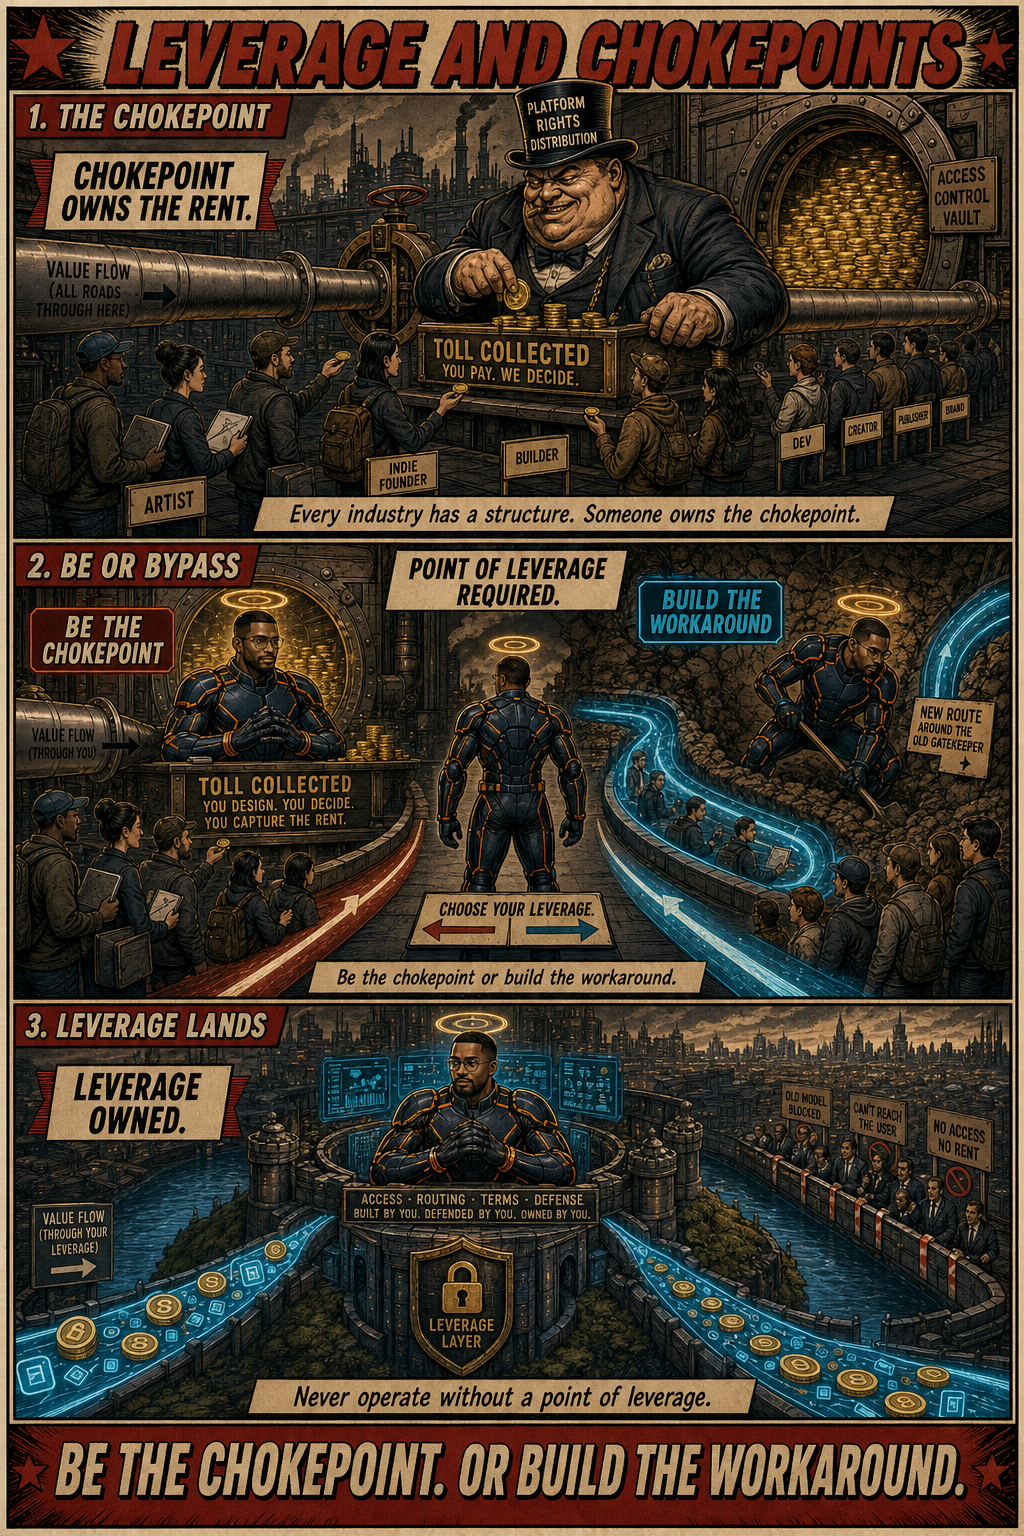
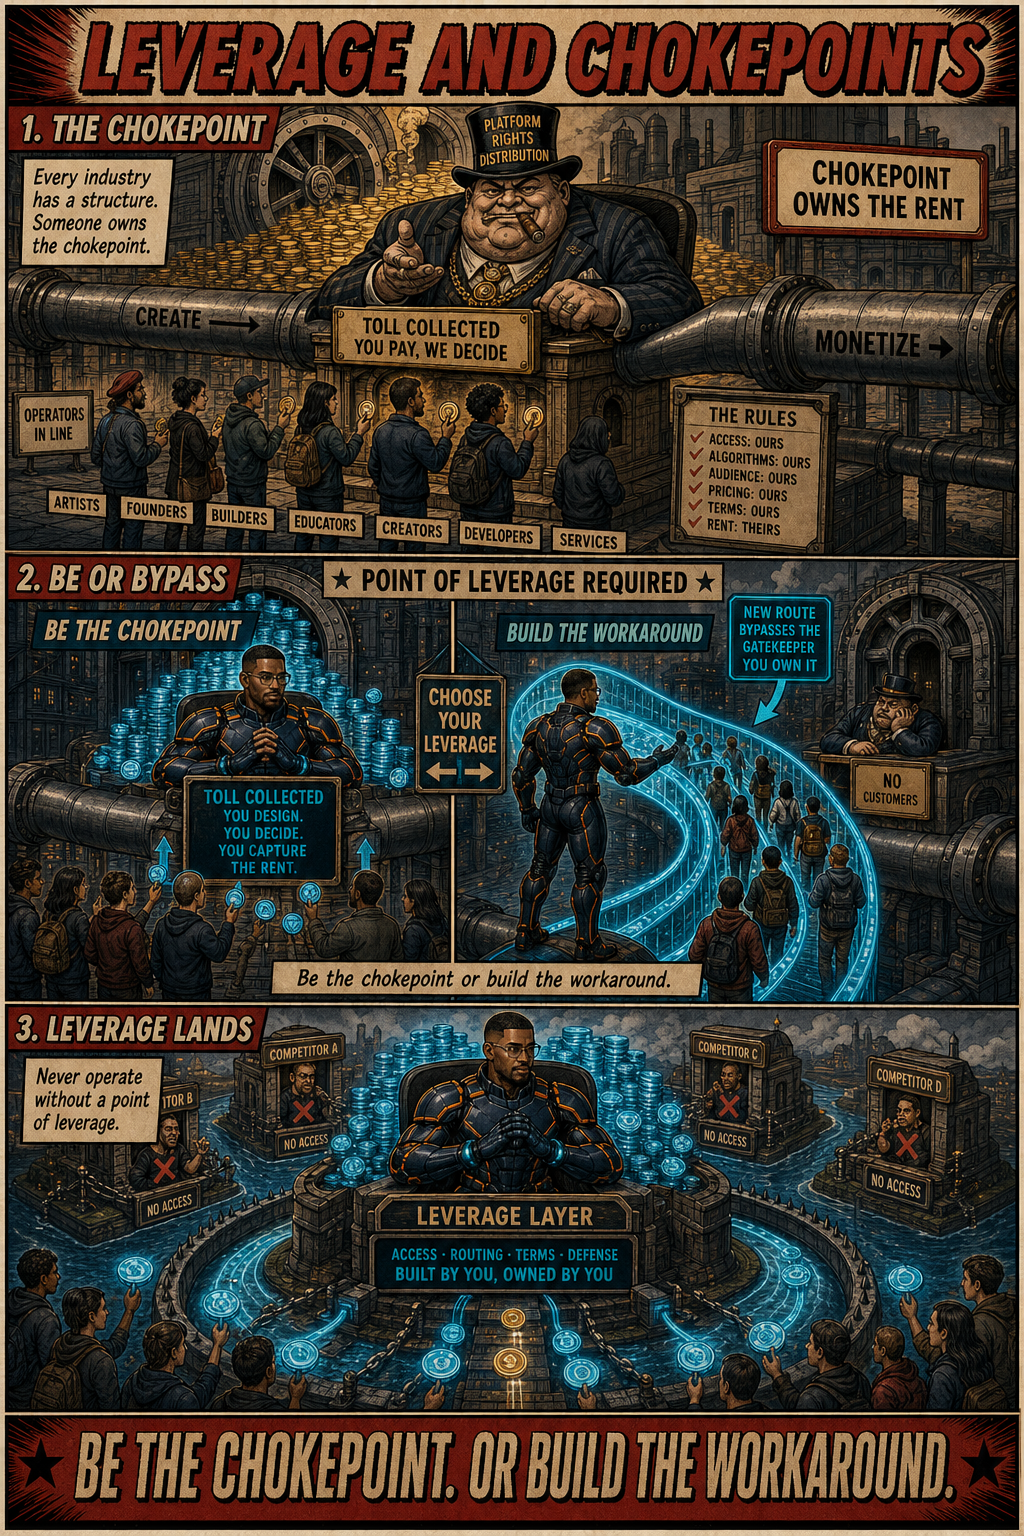
Regen 4 comics: canonical operator on homepage, clockwork tagline, clearer workaround
- homepage: redrawn with canonical Blasian operator across all three
  panels (matte-navy + orange seams, clean chest, gold halo) replacing
  the old arc-reactor white-male character. New footer: SUPERCHARGE
  THE TEAM. MAKE YOUR BUSINESS WORK FOR YOU.
- the-magic-moment: new footer NAME THE MOMENT. THE REST IS JUST
  CLOCKWORK.
- inversion: same footer treatment — SEE THE MAGIC FIRST. THE REST
  IS JUST CLOCKWORK.
- leverage-and-chokepoints: panel 2 redrawn so the workaround reads
  unambiguously: operator stands at a new cyan bridge that bypasses
  the old gatekeeper, who is visibly slumped at his now-empty toll
  booth with operators visibly choosing the new route.

All alt texts updated to match.

diff --git a/docs/start-here/index.md b/docs/start-here/index.md
@@ -9,7 +9,7 @@ description: "Multiply human potential. Keep the soul. Mentor-sourced ground tru
 
 *Multiply human potential. Keep the soul. Mentor-sourced ground truth for principals building agentic businesses. What people who have lived it would tell you about doing this right, captured verbatim where they said it best.*
 
-![Three-panel comic. THE FORK: a founder/principal at a literal fork in the road, looking right with conviction; the LEFT path winds into a cold mechanized factory (HEADCOUNT REDUCTION arrow down, SOULLESS EFFICIENCY EMPTY VICTORIES, SLOP AT SCALE NO SOUL NO FUTURE) and the RIGHT path opens into a warm sunlit workshop (HUMAN POTENTIAL arrow up, AMPLIFIED HUMANS DURABLE IMPACT, CRAFT PURPOSE IMPACT HUMANS + AI LIMITLESS); the principal's body angled toward the right path. Caption: 'Two paths. Headcount cut, or human potential multiplied.' THE MENTORS: the principal seated at a round wooden table with four mentor archetypes around it (THE DURABLE OPERATOR, THE SECOND-TIME FOUNDER, THE AGENTIC-NATIVE, THE MISSION KEEPER), each speaking a distilled principle in a speech bubble (CHIPS NOT CASH, NICHE DOMINATION FIRST, MINIMUM PROOFPOINT, MISSIONARY THEN MERCENARY); the principal taking notes in a leather journal labeled PRINCIPLES; warm cyan halo of wisdom over the table. Caption: 'Mentor-sourced wisdom. Captured from operators who have lived it.' THE AGENTIC BUSINESS: wide third-person shot of the principal at the helm of his thriving business; he wears an armored chest plate with arc-reactor cyan core, gauntlets, gold halo and agentic swirl glyph above; banner reads WHY WE EXIST — THE MISSION INTACT; named team members at workstations with cyan-glow AI amplification each labeled with their role (LEAD DESIGNER, HEAD OF OPS, COMMUNITY LEAD, CRAFT MASTER) doing distinctly human work; outcome cards float in the air (MISSION INTACT ✓, HUMAN POTENTIAL UP 10X, DURABLE GROWTH ✓, TEAM ENERGIZED ✓). Caption: 'AI multiplies the humans. The mission stays the soul of the business.' Title bar: AGENTIC BUSINESS. Footer bar: MULTIPLY HUMAN POTENTIAL. KEEP THE SOUL.](/img/comics/homepage.png)
+![Three-panel comic. The principal across all three panels is the canonical Blasian supersuited operator (full cybertronic exo-suit, matte-navy plating with vivid orange seam accents, clean chest with no glowing core piece, cyan glow at wrist cuffs, single unified gold spiral halo above his head). 1. THE FORK: the operator stands at a literal fork in the road, body angled toward the right path with conviction; LEFT path winds into a cold mechanized factory (HEADCOUNT REDUCTION red downward arrow, SOULLESS EFFICIENCY · EMPTY VICTORIES, SLOP AT SCALE · NO SOUL · NO FUTURE); RIGHT path opens into a warm sunlit craftsman workshop (HUMAN POTENTIAL cyan upward arrow, MULTIPLY HUMAN POTENTIAL, AMPLIFIED HUMANS · DURABLE IMPACT, CRAFT · PURPOSE · IMPACT · HUMANS + AI LIMITLESS). Caption: 'Two paths. Headcount cut, or human potential multiplied.' 2. THE MENTORS: the same operator seated at a round wooden table writing in a PRINCIPLES journal, four mentor archetypes around it each speaking a distilled principle — THE DURABLE OPERATOR (older man, full grey beard, CHIPS NOT CASH), THE SECOND-TIME FOUNDER (woman with shoulder-length hair, NICHE DOMINATION FIRST), THE AGENTIC-NATIVE (clean-shaven young Asian man, MINIMUM PROOFPOINT), THE MISSION KEEPER (Black man with neat afro, MISSIONARY THEN MERCENARY); warm cyan halos of wisdom over the table. Caption: 'Mentor-sourced wisdom. Captured from operators who have lived it.' 3. THE AGENTIC BUSINESS: wide third-person shot of the same operator at the helm of his thriving business (clean chest, no glowing core, gold spiral halo above); banner reads WHY WE EXIST — THE MISSION INTACT; outcome cards float (MISSION INTACT ✓, HUMAN POTENTIAL UP 10X, DURABLE GROWTH ✓, TEAM ENERGIZED ✓); named team members at workstations with cyan-glow AI amplification, each visibly distinct — LEAD DESIGNER (East Asian woman, short bob, glasses), HEAD OF OPS (older Black man with salt-and-pepper beard), COMMUNITY LEAD (Latina woman with long curly hair), CRAFT MASTER (white European man, neat short hair). Caption: 'AI multiplies the humans. The mission stays the soul of the business.' Title bar: AGENTIC BUSINESS. Footer bar: SUPERCHARGE THE TEAM. MAKE YOUR BUSINESS WORK FOR YOU.](/img/comics/homepage.png)
 
 ---
 

diff --git a/docs/principles/leverage-and-chokepoints.md b/docs/principles/leverage-and-chokepoints.md
@@ -8,7 +8,7 @@ description: "Every industry has a structure. Be the chokepoint or build the wor
 
 *Every industry has a structure. Be the chokepoint or build the workaround. Never operate without a point of leverage.*
 
-![Three-panel comic. 1. THE CHOKEPOINT: an industrial value-flow pipe with a giant top-hatted gatekeeper figure (PLATFORM RIGHTS / DISTRIBUTION) sitting at the narrow point collecting toll from small operators passing through; ACCESS CONTROL VAULT overflowing with coins on the right; small operators wait in a long line on the left (ARTIST, BUILDER, etc.); banner CHOKEPOINT OWNS THE RENT, sign TOLL COLLECTED · YOU PAY, WE DECIDE. Caption: 'Every industry has a structure. Someone owns the chokepoint.' 2. BE OR BYPASS: the canonical Blasian supersuited operator stands at a decision point with POINT OF LEVERAGE REQUIRED banner; left path BE THE CHOKEPOINT (operator now sitting at the gatekeeper\\'s desk with TOLL COLLECTED · YOU DESIGN. YOU DECIDE. YOU CAPTURE THE RENT); right path BUILD THE WORKAROUND (operator digging a new cyan-glowing bypass tunnel labeled NEW ROUTE AROUND THE OLD GATEKEEPER); sign CHOOSE YOUR LEVERAGE. Caption: 'Be the chokepoint or build the workaround.' 3. LEVERAGE LANDS: wide shot — operator at the new LEVERAGE LAYER position with VALUE FLOW THROUGH YOUR LAYER and steady flow of cyan-glowing chips/coins coming in; banner LEVERAGE OWNED · ACCESS · ROUTING · TERMS · DEFENSE BUILT BY YOU, OWNED BY YOU; competitors visible across the moat unable to disintermediate. Caption: 'Never operate without a point of leverage.' Title bar: LEVERAGE AND CHOKEPOINTS. Footer bar: BE THE CHOKEPOINT. OR BUILD THE WORKAROUND.](/img/comics/leverage-and-chokepoints.png)
+![Three-panel comic. 1. THE CHOKEPOINT: an industrial value-flow pipe with a giant top-hatted gatekeeper figure (PLATFORM RIGHTS / DISTRIBUTION) sitting at the narrow point collecting toll from small operators passing through; ACCESS CONTROL VAULT overflowing with coins on the right; small operators wait in a long line on the left (ARTIST, BUILDER, etc.); banner CHOKEPOINT OWNS THE RENT, sign TOLL COLLECTED · YOU PAY, WE DECIDE. Caption: 'Every industry has a structure. Someone owns the chokepoint.' 2. BE OR BYPASS: horizontally split scene with POINT OF LEVERAGE REQUIRED banner. LEFT half BE THE CHOKEPOINT: the canonical Blasian supersuited operator is now seated at the gatekeeper\\'s former desk (old top-hat gatekeeper gone), vault filling with cyan chips, TOLL COLLECTED · YOU DESIGN. YOU DECIDE. YOU CAPTURE THE RENT. RIGHT half BUILD THE WORKAROUND: same operator stands at the entrance of a new shimmering cyan bridge/tunnel he has built that visibly routes value flow AROUND and BYPASSES the old gatekeeper\\'s pipe; the old gatekeeper is visible slumped at his now-empty toll booth in the background (NO CUSTOMERS sign); small operators visibly choose the new cyan route; arrow labels NEW ROUTE · BYPASSES THE GATEKEEPER · YOU OWN IT; sign CHOOSE YOUR LEVERAGE. Caption: 'Be the chokepoint or build the workaround.' 3. LEVERAGE LANDS: wide shot — operator at the new LEVERAGE LAYER position with VALUE FLOW THROUGH YOUR LAYER and steady flow of cyan-glowing chips/coins coming in; banner LEVERAGE OWNED · ACCESS · ROUTING · TERMS · DEFENSE BUILT BY YOU, OWNED BY YOU; competitors visible across the moat unable to disintermediate. Caption: 'Never operate without a point of leverage.' Title bar: LEVERAGE AND CHOKEPOINTS. Footer bar: BE THE CHOKEPOINT. OR BUILD THE WORKAROUND.](/img/comics/leverage-and-chokepoints.png)
 
 ---
 

diff --git a/docs/principles/the-magic-moment.md b/docs/principles/the-magic-moment.md
@@ -8,7 +8,7 @@ description: "Every business has one specific transaction where value is deliver
 
 *Every business has one specific transaction where value is delivered. Build everything backwards from that moment.*
 
-![Three-panel comic. 1. EVERY BUSINESS HAS ONE: a 4-quadrant montage panel showing four magic-moment vignettes side by side — ICE CREAM (a customer at a small food-truck counter receives a cone, eyes lighting up), MUSIC (an artist signing a contract at a desk, pen mid-stroke), TEACHING (a teacher pressing a button on a tablet with a finished report card sliding out, A+ grade visible), ROCKETS (a rocket lifting off with a 1 TON cargo container glowing on top). Caption: 'Every business has one specific moment where value crystallizes.' 2. MOST FOUNDERS NEVER NAME IT: a founder sits at a desk surrounded by chaotic stacks of decks (MARKETING PLAN, TEAM ORG CHART, INVESTOR DECK, FINANCIAL MODEL, SALES DECK, HIRING PLAN, BRAND STRATEGY, PRODUCT ROADMAP, IN MY HEAD: TO DOs); at the center where the magic moment should be there is just a fuzzy question-marked silhouette; the founder looks scattered; banner REACTIVE · UNFOCUSED. Caption: 'Most founders never name it. They react to stories.' 3. NAME IT FIRST: the canonical Blasian supersuited operator stands inside the named magic moment (a specific concrete scene with a customer receiving a finished artifact box stamped FINANCE / DELIVERED / EXACTLY WHAT I NEEDED); around and behind him, MARKETING, FINANCE, PRODUCT, HIRES, SALES, OPERATIONS arrayed as supporting beams pointing inward; banner MOMENT NAMED · EVERYTHING SERVES IT. Caption: 'Name it. Build everything backwards from it.' Title bar: THE MAGIC MOMENT. Footer bar: NAME THE MOMENT. THE REST IS PATTERNS.](/img/comics/the-magic-moment.png)
+![Three-panel comic. 1. EVERY BUSINESS HAS ONE: a 4-quadrant montage panel showing four magic-moment vignettes side by side — ICE CREAM (a customer at a small food-truck counter receives a cone, eyes lighting up), MUSIC (an artist signing a contract at a desk, pen mid-stroke), TEACHING (a teacher pressing a button on a tablet with a finished report card sliding out, A+ grade visible), ROCKETS (a rocket lifting off with a 1 TON cargo container glowing on top). Caption: 'Every business has one specific moment where value crystallizes.' 2. MOST FOUNDERS NEVER NAME IT: a founder sits at a desk surrounded by chaotic stacks of decks (MARKETING PLAN, TEAM ORG CHART, INVESTOR DECK, FINANCIAL MODEL, SALES DECK, HIRING PLAN, BRAND STRATEGY, PRODUCT ROADMAP, IN MY HEAD: TO DOs); at the center where the magic moment should be there is just a fuzzy question-marked silhouette; the founder looks scattered; banner REACTIVE · UNFOCUSED. Caption: 'Most founders never name it. They react to stories.' 3. NAME IT FIRST: the canonical Blasian supersuited operator stands inside the named magic moment (a specific concrete scene with a customer receiving a finished artifact box stamped FINANCE / DELIVERED / EXACTLY WHAT I NEEDED); around and behind him, MARKETING, FINANCE, PRODUCT, HIRES, SALES, OPERATIONS arrayed as supporting beams pointing inward; banner MOMENT NAMED · EVERYTHING SERVES IT. Caption: 'Name it. Build everything backwards from it.' Title bar: THE MAGIC MOMENT. Footer bar: NAME THE MOMENT. THE REST IS JUST CLOCKWORK.](/img/comics/the-magic-moment.png)
 
 ---
 

diff --git a/docs/principles/inversion.md b/docs/principles/inversion.md
@@ -8,7 +8,7 @@ description: "Do not start with the business plan or the financials. Start with 
 
 *Do not start with the business plan or the financials. Start with the magic moment. The financials emerge from the magic, not the other way around.*
 
-![Three-panel comic. 1. THE WRONG ORDER: founder at desk surrounded by giant decks (MARKET DECK, FINANCIAL MODEL, GROWTH PLAN, FUNDING DECK, UNIT ECONOMICS) and a massive financial spreadsheet projected on the wall showing TAM/ARR/BURN/IRR; a huge fuzzy question mark hovers labeled CUSTOMER? (UNKNOWN); investors hold STARS or CHECKS; banner FINANCE FIRST · UNVERIFIED. Caption: 'Decks built before the magic are speculation.' 2. THE MAGIC FIRST: founder behind a small HANDCRAFTED ICE CREAM food-truck counter watching one specific customer take the first bite of an ice cream cone, eyes lighting up (OH MY GOD... THIS IS INCREDIBLE), with a small chalkboard sign reading FIRST BITE · REAL FEEDBACK · NO POLLS · NO SLIDES; line of curious passers-by visible; banner MAGIC FIRST · ONE CUSTOMER. Caption: 'Stand in the magic. Watch it land.' 3. THE PATTERNS FOLLOW: founder back at the desk fills in a clean spreadsheet anchored to the verified magic moment (FROM REAL DATA · UNIT COST OBSERVED · WTP CONFIRMED); the canonical Blasian supersuited operator stands beside him approvingly; banner PATTERNS FOLLOW. Caption: 'Finance becomes tractable once the magic is real.' Title bar: INVERSION — MAGIC BEFORE FINANCE. Footer bar: SEE THE MAGIC FIRST. THE REST IS PATTERNS.](/img/comics/inversion.png)
+![Three-panel comic. 1. THE WRONG ORDER: founder at desk surrounded by giant decks (MARKET DECK, FINANCIAL MODEL, GROWTH PLAN, FUNDING DECK, UNIT ECONOMICS) and a massive financial spreadsheet projected on the wall showing TAM/ARR/BURN/IRR; a huge fuzzy question mark hovers labeled CUSTOMER? (UNKNOWN); investors hold STARS or CHECKS; banner FINANCE FIRST · UNVERIFIED. Caption: 'Decks built before the magic are speculation.' 2. THE MAGIC FIRST: founder behind a small HANDCRAFTED ICE CREAM food-truck counter watching one specific customer take the first bite of an ice cream cone, eyes lighting up (OH MY GOD... THIS IS INCREDIBLE), with a small chalkboard sign reading FIRST BITE · REAL FEEDBACK · NO POLLS · NO SLIDES; line of curious passers-by visible; banner MAGIC FIRST · ONE CUSTOMER. Caption: 'Stand in the magic. Watch it land.' 3. THE PATTERNS FOLLOW: founder back at the desk fills in a clean spreadsheet anchored to the verified magic moment (FROM REAL DATA · UNIT COST OBSERVED · WTP CONFIRMED); the canonical Blasian supersuited operator stands beside him approvingly; banner PATTERNS FOLLOW. Caption: 'Finance becomes tractable once the magic is real.' Title bar: INVERSION — MAGIC BEFORE FINANCE. Footer bar: SEE THE MAGIC FIRST. THE REST IS JUST CLOCKWORK.](/img/comics/inversion.png)
 
 ---
 
